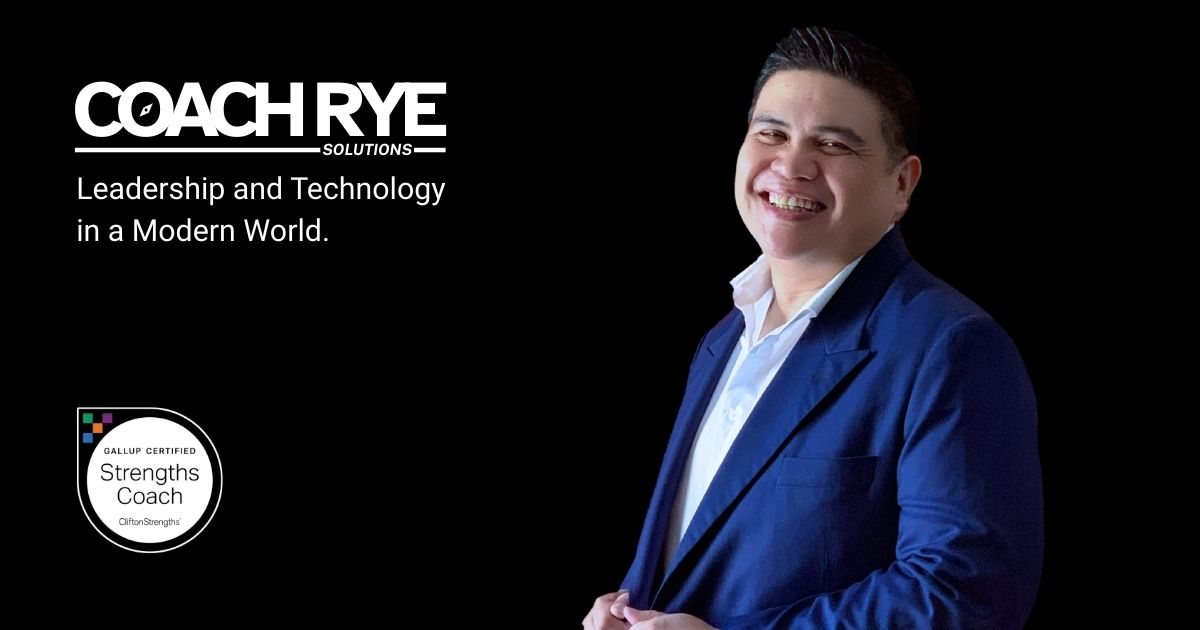
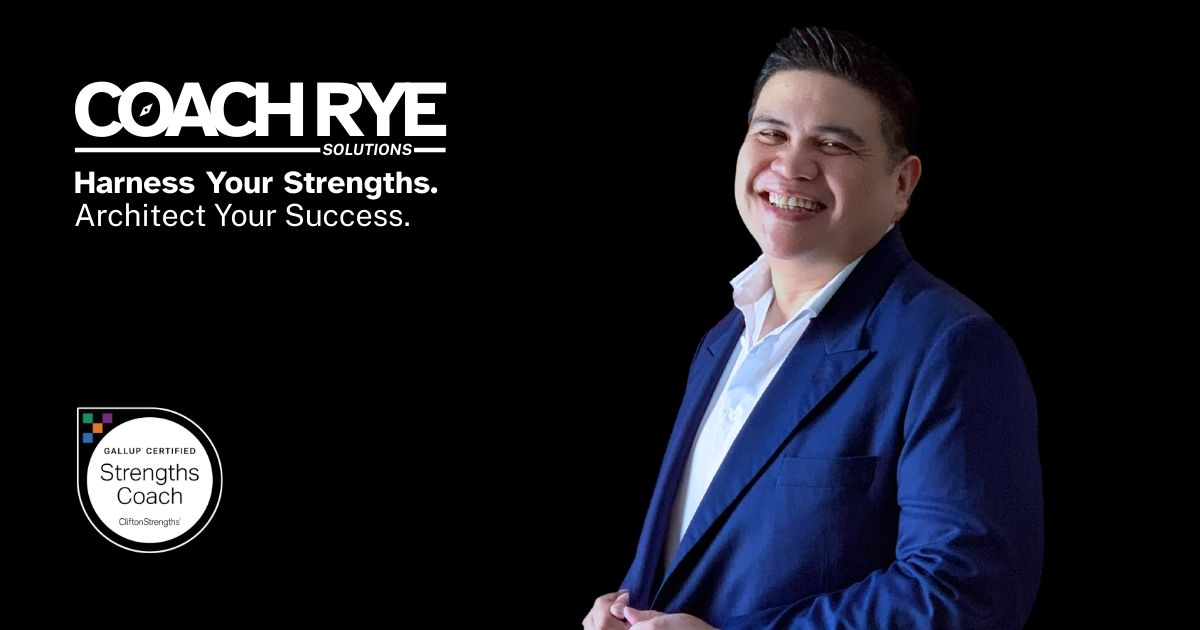
Updated meta title and image

Changed region(s): [[0.0617, 0.2714, 0.37, 0.3921]]

diff --git a/_includes/metas.html b/_includes/metas.html
@@ -2,13 +2,13 @@
 <meta name="viewport" content="width=device-width, initial-scale=1, shrink-to-fit=no">
 
 <meta property="og:type" content="website">
-<meta property="og:url" content="{{ site.url }}/">
+<meta property="og:url" content="{{ site.url }}{{ page.url }}">
 <meta property="og:title" content="{{ page.title }} | Coach Rye Solutions">
 <meta property="og:description" content="CliftonStrengths® Performance Coaching for Professionals">
 <meta property="og:image" content="{{ site.url }}/assets/images/coachrye-og-image.jpg">
 
 <meta property="twitter:card" content="summary_large_image">
-<meta property="twitter:url" content="{{ site.url }}/">
+<meta property="twitter:url" content="{{ site.url }}{{ page.url }}">
 <meta property="twitter:title" content="{{ page.title }} | Coach Rye Solutions">
 <meta property="twitter:description" content="CliftonStrengths® Performance Coaching for Professionals">
 <meta property="twitter:image" content="{{ site.url }}/assets/images/coachrye-og-image.jpg">
